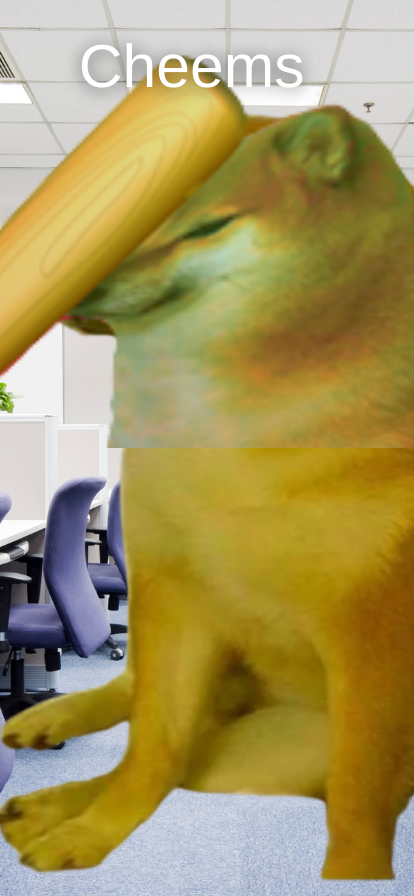
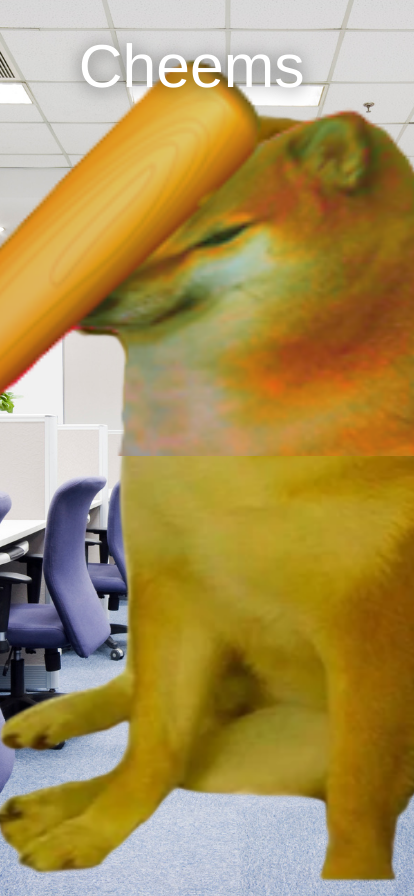
bonk

Changed region(s): [[0.0, 0.0625, 1.0, 0.5312]]

diff --git a/src/Components/useAudio.jsx b/src/Components/useAudio.jsx
@@ -1,21 +1,30 @@
 import { useState, useEffect } from "react";
+import bg from "../images/cheems-bonk.png";
+import bgnb from "../images/cheems-call.png";
 
-const UseAudio = (url) => {
-  const [audio] = useState(new Audio(url));
+
+
+const UseAudio = (url, setBonk) => {
+  const [audio] = useState(new Audio(url, setBonk));
   const [playing, setPlaying] = useState(false);
 
   const toggle = () => setPlaying(!playing);
   // play audio
   useEffect(() => {
+    if(setBonk === true && playing === true){
+        console.log("set bonk is true!")
+        document.body.style.backgroundImage = `url('${bg}')`;
+    }
     if (playing) {
       window.navigator.vibrate([4000, 200, 4000, 200, 4000, 200, 4000, 200, 4000, 200, 4000, 200]);
       audio.currentTime = 0;
       audio.play();
     }
     else{
+      document.body.style.backgroundImage = `url('${bgnb}')`;
       audio.pause();
     }
-  }, [playing, audio]);
+  }, [playing, audio, setBonk]);
 
   useEffect(() => {
     audio.addEventListener("ended", () => setPlaying(false));
@@ -23,7 +32,7 @@ const UseAudio = (url) => {
       audio.removeEventListener("ended", () => setPlaying(false));
     };
   }, [audio]);
-
+  
   return [playing, toggle];
 };
 

diff --git a/src/Components/callPanel.jsx b/src/Components/callPanel.jsx
@@ -1,6 +1,10 @@
 import * as React from "react"; // the most future proof import
+import UseAudio from "./useAudio";
+
 
 const CallPanel = () => {
+  const [playing, toggle] = UseAudio("/Tone/bonk.mp3", true);
+ 
   return (
     <div className="call-panel">
       <div className="triad-btn">
@@ -12,7 +16,7 @@ const CallPanel = () => {
       <div className="triad-btn">
         <i className="fa-solid fa-comment"></i>
         <p>Message</p>
-        <i className="accept-btn fa-solid fa-phone"></i>
+        <i className="accept-btn fa-solid fa-phone" onClick={toggle}></i>
         <p>accept</p>
       </div>
     </div>

diff --git a/src/index.css b/src/index.css
@@ -1,6 +1,8 @@
 body {
   display: flex;
   flex-direction: column;
+  background-image: url("./images/cheems-call.png");
+
   margin: 0;
   font-family: -apple-system, BlinkMacSystemFont, 'Segoe UI', 'Roboto', 'Oxygen',
     'Ubuntu', 'Cantarell', 'Fira Sans', 'Droid Sans', 'Helvetica Neue',
@@ -37,7 +39,6 @@ body {
 
 }
 .cheems-main{
-  background-image: url("./images/cheems-call.png");
   background-size: no-repeat;
   display: flex;
   flex-direction: column;

diff --git a/src/Components/header.jsx b/src/Components/header.jsx
@@ -5,7 +5,7 @@ import UseAudio from "./useAudio";
 
 const Header = () => {
   // url nokia spy tone
-  const [playing, toggle] = UseAudio("/Tone/call.mp3");
+  const [playing, toggle] = UseAudio("/Tone/call.mp3", false);
 
   return (
     <header className="header-cheems">
